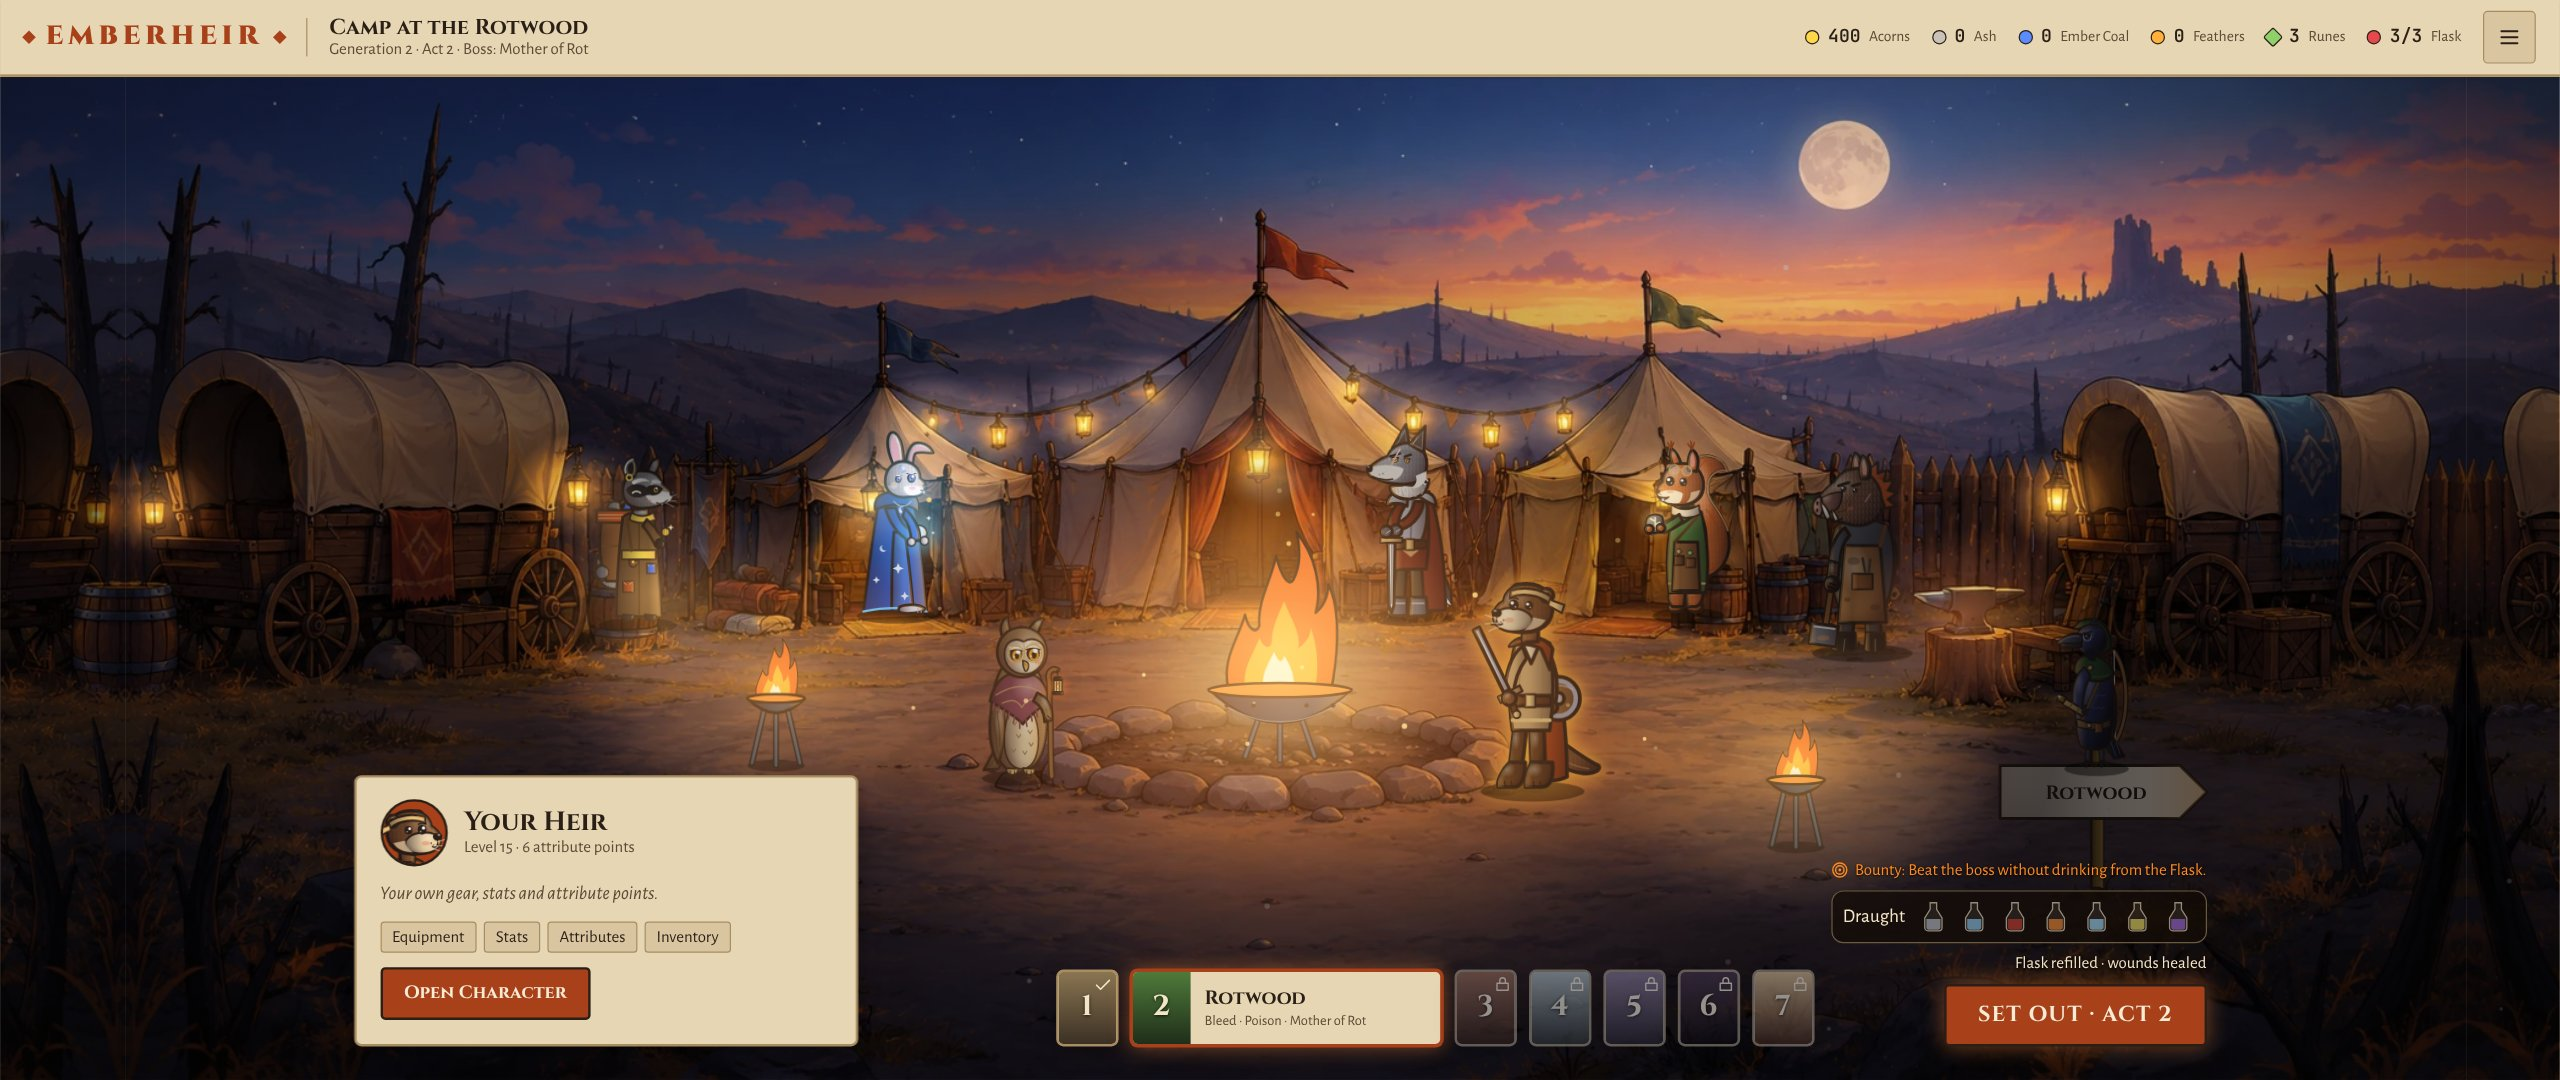
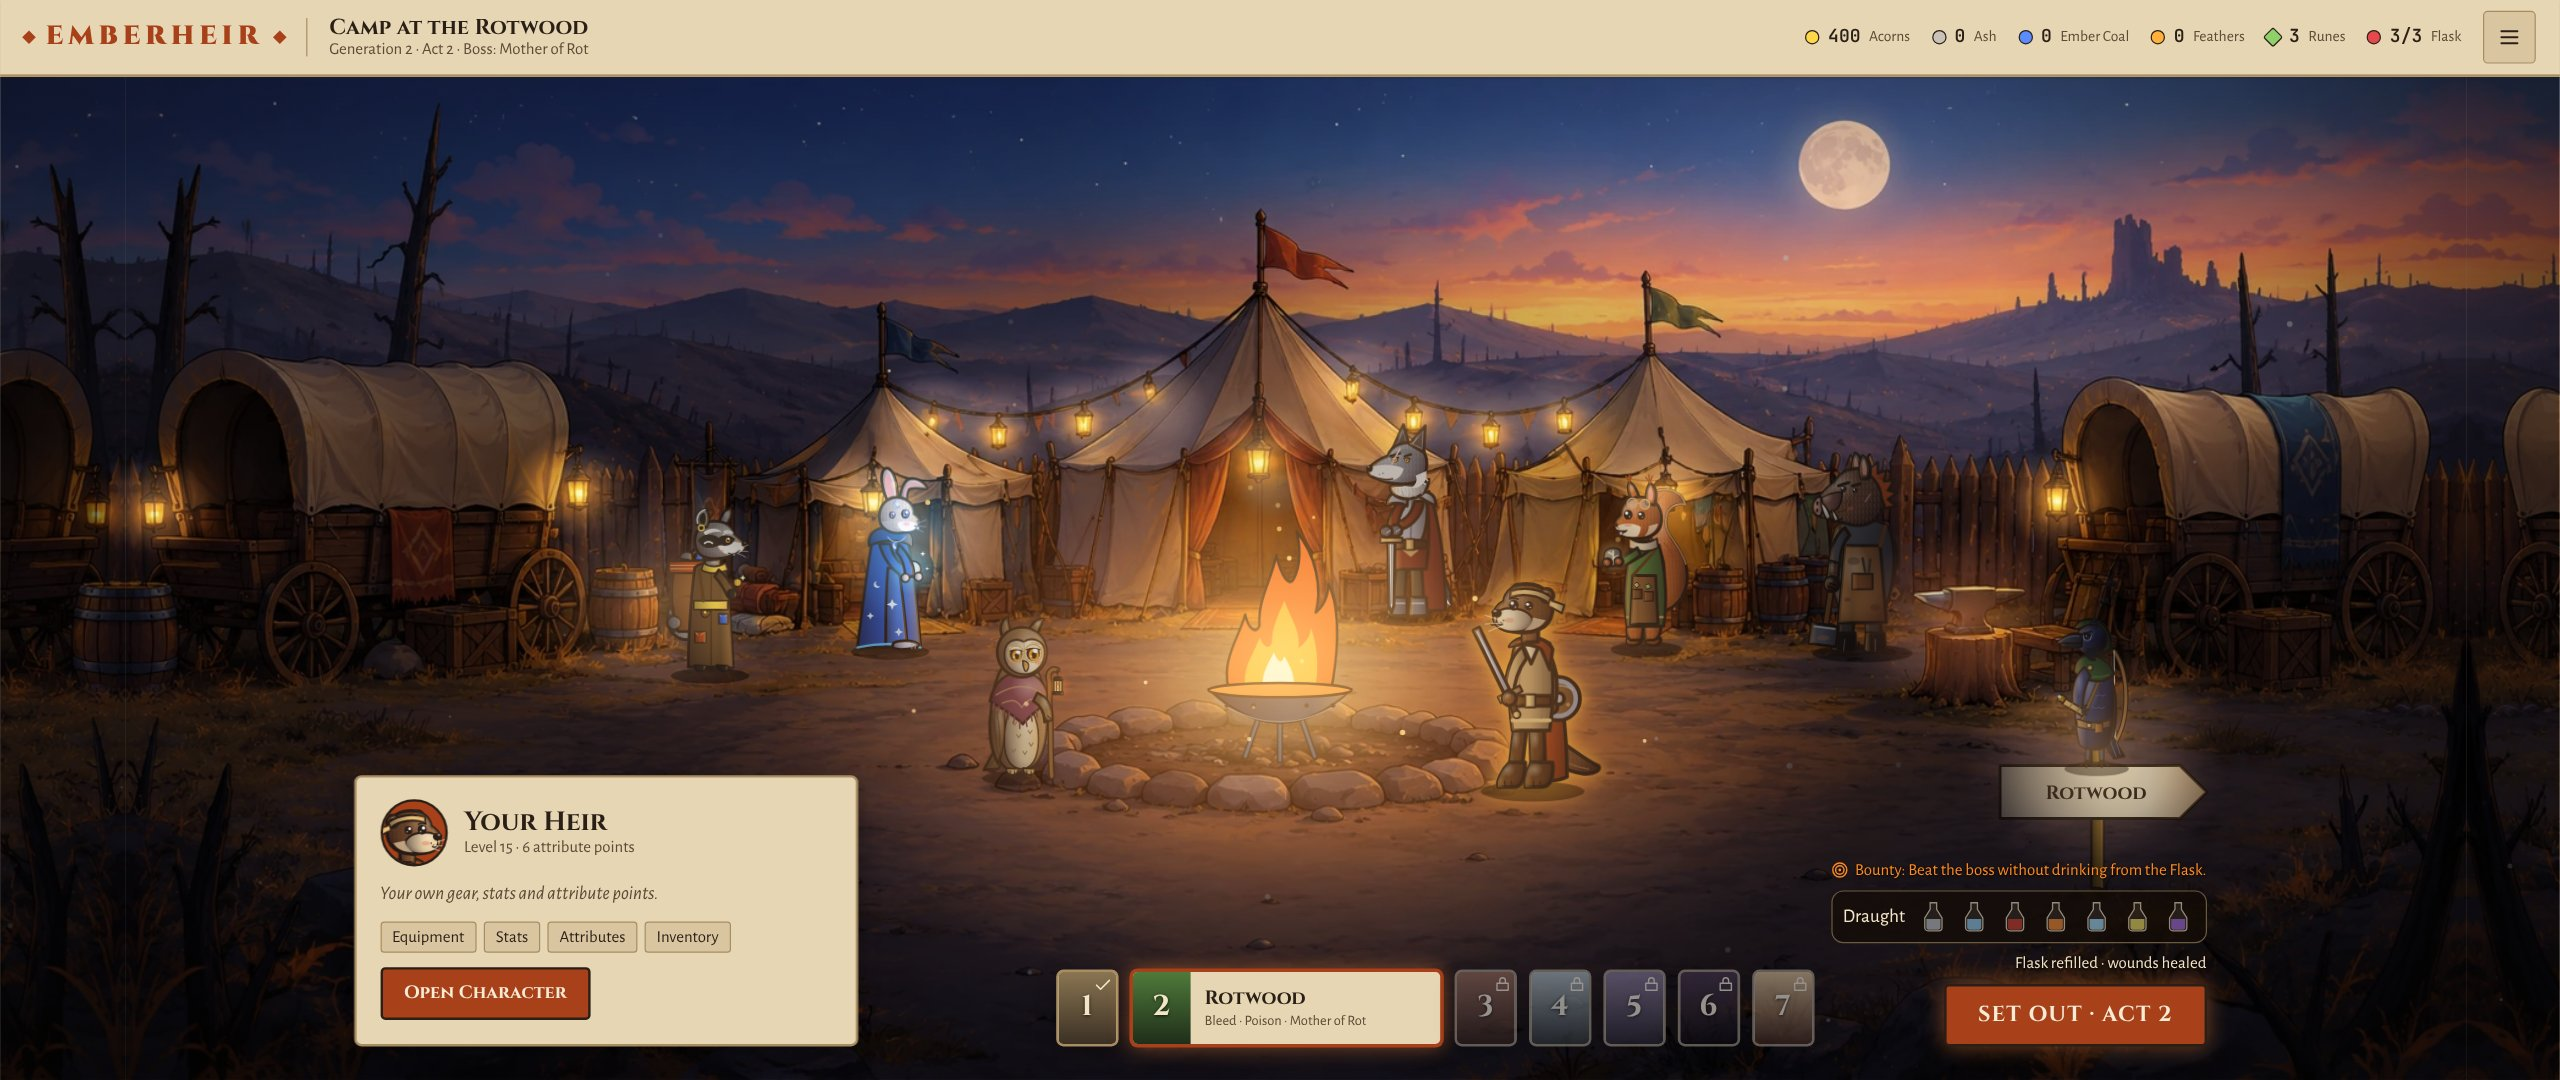
fix(web): ground Nyssa, Liora and Marisha, remove the braziers
Claude-Session: https://claude.ai/code/session_017LvWSAabR5jyJhNoEaBnMC

Changed region(s): [[0.625, 0.3972, 0.875, 0.825], [0.2188, 0.3972, 0.375, 0.7333]]

diff --git a/apps/web/src/game/camp/art/CampScene.tsx b/apps/web/src/game/camp/art/CampScene.tsx
@@ -213,7 +213,7 @@ const FLAME_MID =
 const FLAME_CORE =
   "M704 548 C700 534 708 522 714 510 C718 520 722 522 724 514 C732 526 736 538 732 548 Z";
 
-/** The Hearthfire's flames; braziers reuse them scaled down (base center at 720, 548). */
+/** The Hearthfire's flames (base center at 720, 548). */
 function Flames(props: { transform?: string }) {
   return (
     <g className="flames" transform={props.transform}>
@@ -230,36 +230,6 @@ function Flames(props: { transform?: string }) {
     </g>
   );
 }
-
-/** A standing brazier; x, y is where its legs meet the ground. */
-function Brazier(props: { x: number; y: number }) {
-  const { x, y } = props;
-  const k = 0.32;
-  return (
-    <g>
-      <ellipse cx={x} cy={y + 2} rx="24" ry="5" fill="#000" opacity="0.35" />
-      <L
-        d={`M${x - 20} ${y} L${x - 10} ${y - 44} M${x + 20} ${y} L${x + 10} ${y - 44} M${x} ${y + 2} L${x} ${y - 40}`}
-        color="#2a2622"
-        w={5}
-      />
-      <L
-        d={`M${x - 20} ${y} L${x - 10} ${y - 44} M${x + 20} ${y} L${x + 10} ${y - 44} M${x} ${y + 2} L${x} ${y - 40}`}
-        color="#5a5a62"
-        w={2.4}
-      />
-      <Flames transform={`translate(${f(x - 720 * k)} ${f(y - 54 - 548 * k)}) scale(${k})`} />
-      <S d={`M${x - 24} ${y - 54} Q${x} ${y - 30} ${x + 24} ${y - 54} Z`} fill="#4a4a52" w={2.2} />
-      <ellipse cx={x} cy={y - 54} rx="24" ry="3.5" fill="#ff8a3a" stroke={INK} strokeWidth="2" />
-    </g>
-  );
-}
-
-/** Where the braziers stand, in scene coordinates. */
-const BRAZIERS = [
-  { x: 300, y: 572 },
-  { x: 1150, y: 640 },
-];
 
 /** The painted lanterns (string between the tents, tent doors, wagons), in scene coordinates. */
 const LANTERNS = [
@@ -300,17 +270,8 @@ export function campLights(opts: { orb: boolean }): CampLightSource[] {
       strength: 0.5,
       flicker: "fire",
     },
-    ...BRAZIERS.map((b) => ({
-      x: b.x,
-      y: b.y - 70,
-      rx: 170,
-      ry: 120,
-      color: "#ff9a40",
-      strength: 0.5,
-      flicker: "fire" as const,
-    })),
     // Marisha's corner by the Supply Wagon.
-    { x: 200, y: 430, rx: 110, ry: 90, color: "#ffb060", strength: 0.35, flicker: "soft" },
+    { x: 250, y: 480, rx: 110, ry: 90, color: "#ffb060", strength: 0.35, flicker: "soft" },
     // Eldrin on the signpost.
     {
       x: 1300 + SIGNPOST_DX,
@@ -327,8 +288,8 @@ export function campLights(opts: { orb: boolean }): CampLightSource[] {
     ...(opts.orb
       ? [
           {
-            x: 420,
-            y: 350,
+            x: 415,
+            y: 380,
             rx: 80,
             ry: 80,
             color: "#6fd3ff",
@@ -433,9 +394,6 @@ export function CampFx(props: { w: number; h: number; ox: number }) {
           ))}
         </g>
       </g>
-      {BRAZIERS.map((b) => (
-        <Brazier key={b.x} x={b.x} y={b.y} />
-      ))}
     </svg>
   );
 }

diff --git a/apps/web/src/game/camp/campPersonas.ts b/apps/web/src/game/camp/campPersonas.ts
@@ -125,8 +125,8 @@ export function personas(state: GameState, road: ActData): Persona[] {
       id: "marisha",
       name: "Marisha",
       role: "Black Market",
-      x: 185,
-      y: 528,
+      x: 245,
+      y: 570,
       icon: "coins",
       cloak: "#7a5a24",
       figure: { fs: 0.95 },
@@ -140,8 +140,8 @@ export function personas(state: GameState, road: ActData): Persona[] {
       id: "liora",
       name: "Liora",
       role: "Mystic",
-      x: 400,
-      y: 520,
+      x: 395,
+      y: 550,
       icon: "eye",
       cloak: "#2d5bd0",
       figure: { fs: 0.95 },
@@ -169,8 +169,8 @@ export function personas(state: GameState, road: ActData): Persona[] {
       id: "nyssa",
       name: "Nyssa",
       role: "Runesmith",
-      x: 1060,
-      y: 520,
+      x: 1025,
+      y: 548,
       icon: "rune",
       cloak: "#4f7a3a",
       figure: { fs: 1 },
